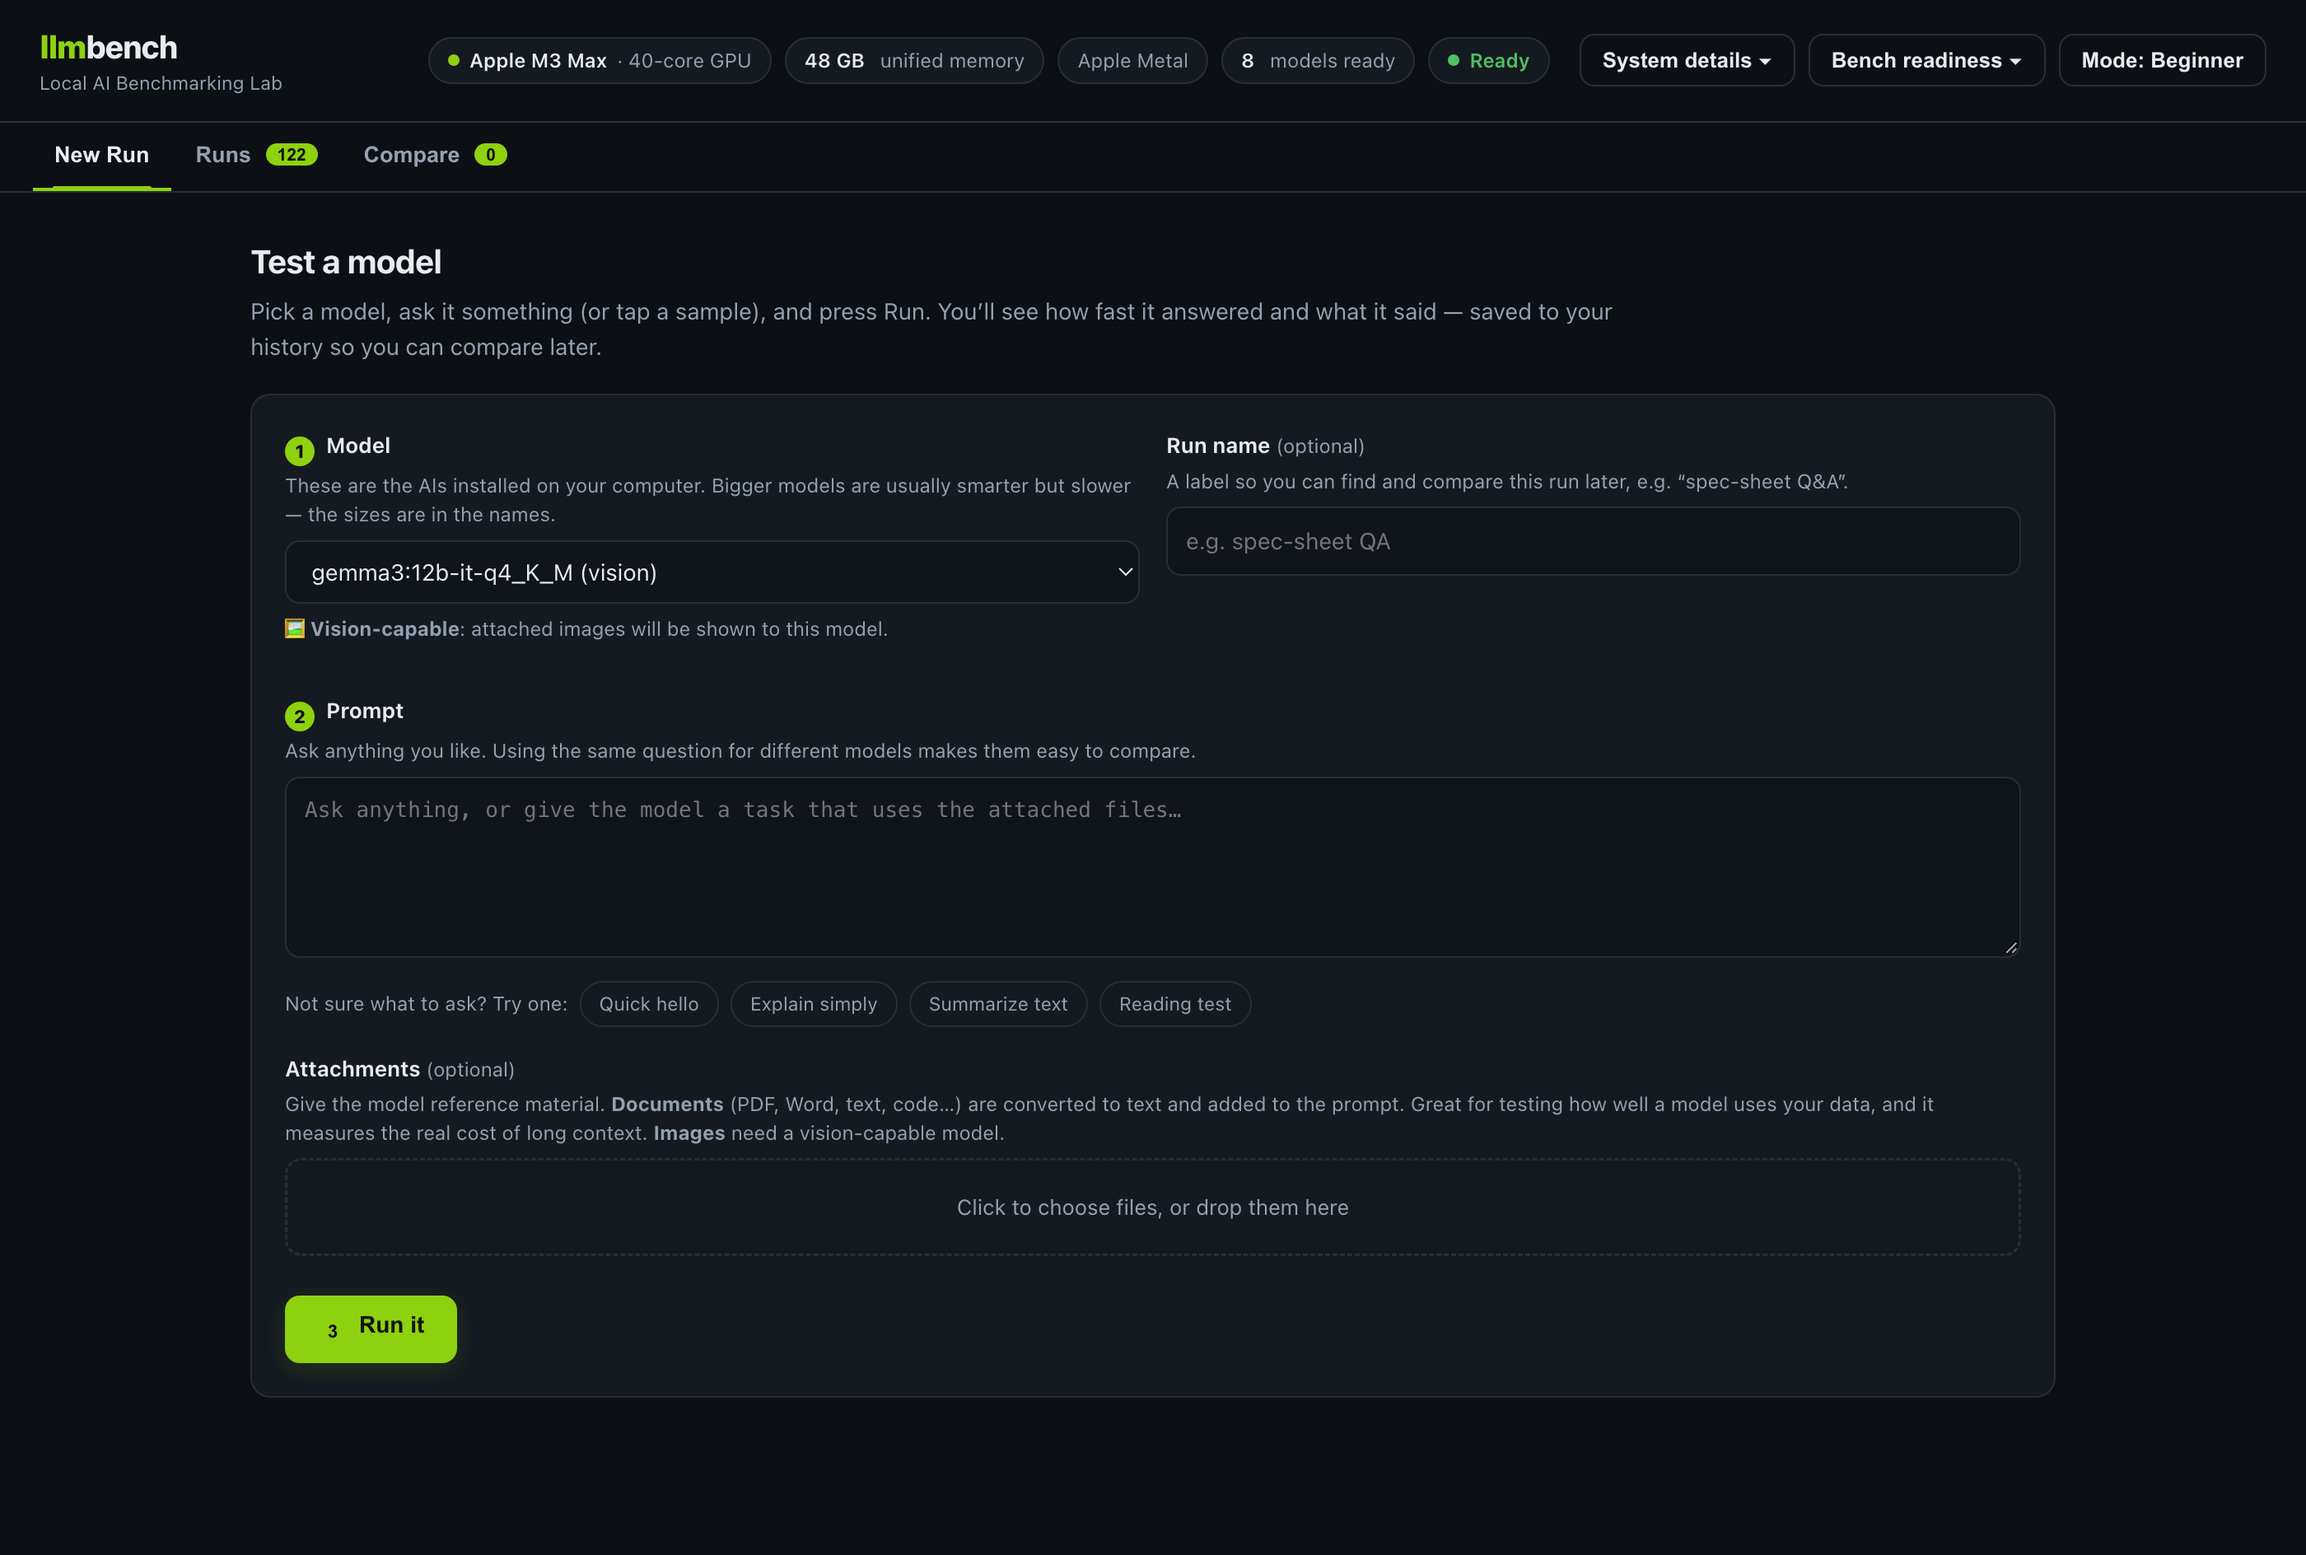
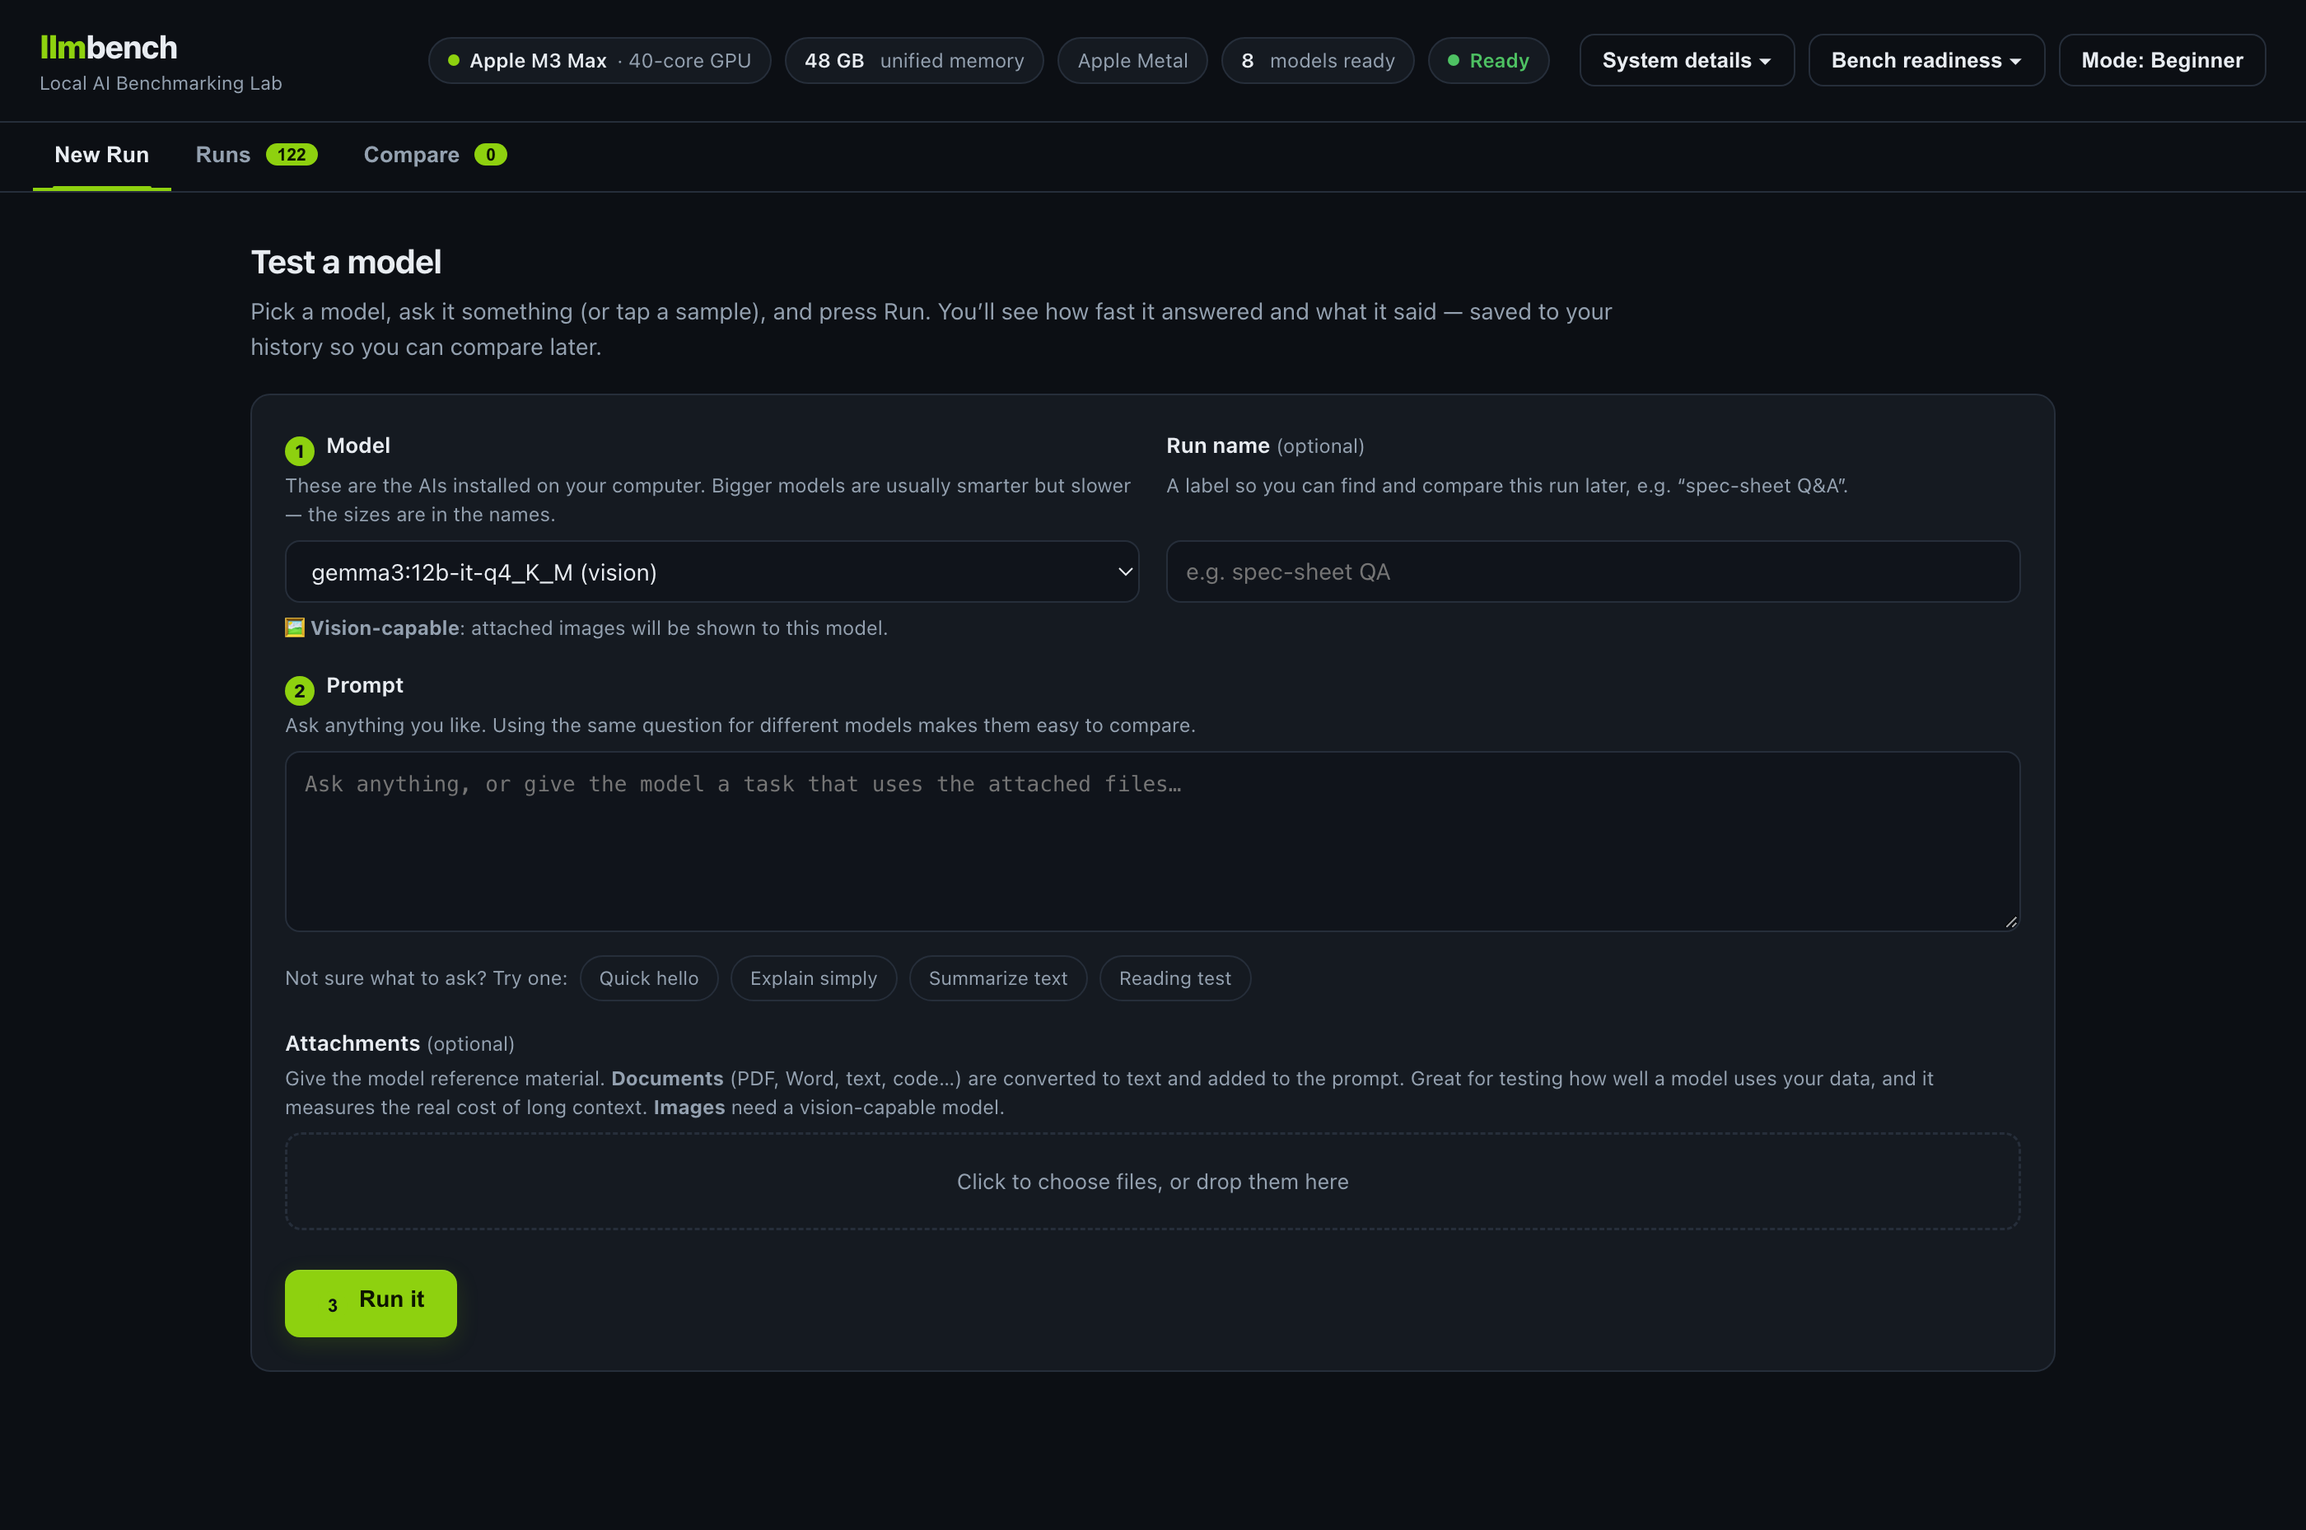
Align the form bands with subgrid; fix header and control-height wraps
Side-by-side fields aligned at their tops, so help text of different
heights pushed the controls to different lines: the Model select sat a
paragraph lower than the Run name input, and the offset changed with the
mode because the copy changes with the mode.

Alignment is now by band, with CSS subgrid: fields in a row share the
same tracks, so labels align with labels, help with help, controls with
controls, and trailing hints with trailing hints, whatever the text
height. Two follow-on bugs surfaced by measuring rather than eyeballing:

- Cells spanning an empty trailing track inherited a phantom 16 px row
  gap, which parked the Check-connection button exactly one gap below
  its neighbours. Rows now use column gap only; band spacing comes from
  the existing label/help margins.
- Text inputs and selects differed by 4 px of intrinsic height, visible
  in the Runs filter row. Both now share a 38 px box.

A button-only cell (Check connection) spans all bands and bottom-aligns,
so it sits level with its row's controls whatever shape that row has.
Non-subgrid browsers fall back to bottom-pinned controls.

The header stacked three rows deep at mid widths, chips wrapping between
the brand and the mode buttons. Below 1180 px the chip bar now takes its
own full-width second row.

Verified numerically in all three modes at 1400 and 1000 px: model/name
delta 0, every advanced-panel row delta 0, button-vs-input delta 0,
[…]

diff --git a/llmbench/web/index.html b/llmbench/web/index.html
@@ -120,6 +120,14 @@
   /* Two toggles plus the chip bar need the room, so the tagline is the first
      thing to go on a narrow window rather than letting the brand wrap. */
   @media (max-width:1040px){ .brand .tagline{display:none} }
+  /* On mid widths the chip bar used to wrap between the brand and the buttons,
+     stacking the header three rows deep. Below 1180px it drops to its own
+     full-width second row instead: brand and mode buttons stay on line one. */
+  @media (max-width:1180px){
+    header{flex-wrap:wrap;row-gap:8px}
+    .drawertoggles{margin-left:auto}
+    .chipbar{order:3;flex-basis:100%;margin-left:0}
+  }
   .rhead{display:flex;align-items:flex-start;justify-content:space-between;gap:16px}
   .rhead button{white-space:nowrap;flex:none}
   .rbanner{display:flex;align-items:center;gap:9px;font-weight:650;font-size:13px;
@@ -196,6 +204,42 @@
   textarea{min-height:110px;resize:vertical;font-family:ui-monospace,SFMono-Regular,Menlo,monospace;font-size:13px}
   .row{display:grid;grid-template-columns:1fr 1fr;gap:16px}
   .row3{display:grid;grid-template-columns:1fr 1fr 1fr;gap:16px}
+  /* Fields that sit side by side must align by BAND, not by top: label with
+     label, help with help, control with control, trailing hint with trailing
+     hint. Help text varies in height (and changes with the mode), so the only
+     correct tool is subgrid: every cell shares the same four row tracks, and a
+     tall help in one column pushes the control row down in BOTH columns. */
+  .row>.field,.row3>.field{margin-bottom:0;min-width:0}
+  /* Column gap only: band spacing comes from label/help margins, and a row
+     gap would leak a phantom 16px into cells that span an empty trailing
+     track (measured: the Check-connection button sat exactly one gap low). */
+  .row,.row3{margin-bottom:15px;row-gap:0}
+  @supports (grid-template-rows: subgrid){
+    .row>.field{display:grid;grid-template-rows:subgrid;grid-row:span 4;
+      align-content:start}
+    .row3>.field{display:grid;grid-template-rows:subgrid;grid-row:span 3;
+      align-content:start}
+    .row{grid-template-rows:auto auto auto auto}
+    .row3{grid-template-rows:auto auto auto}
+    /* A cell that is only a button (Check connection) spans every band and
+       bottom-aligns, so it sits level with its neighbours' controls whatever
+       shape this particular row has. */
+    .row3>.field:has(> button:only-child){grid-row:span 3;display:flex;
+      flex-direction:column;justify-content:end}
+  }
+  @supports not (grid-template-rows: subgrid){
+    /* Fallback: bottom-pin the controls; trailers may offset them slightly. */
+    .row,.row3{align-items:stretch}
+    .row>.field,.row3>.field{display:flex;flex-direction:column}
+    .row>.field>select,.row>.field>input:not([type=checkbox]),
+    .row3>.field>select,.row3>.field>input:not([type=checkbox]),
+    .row3>.field>button:only-child{margin-top:auto}
+  }
+  .row .hint:empty{display:none}
+  /* Text inputs and selects share one height, so side-by-side controls sit on
+     identical boxes instead of differing by a few pixels of intrinsic size. */
+  input:not([type=checkbox]):not([type=radio]):not([type=file]),select{
+    height:38px;box-sizing:border-box}
   @media (max-width:760px){.row,.row3{grid-template-columns:1fr}}
   .field{margin-bottom:15px}
   button.btn{background:var(--accent);color:var(--accent-ink);border:none;border-radius:9px;
